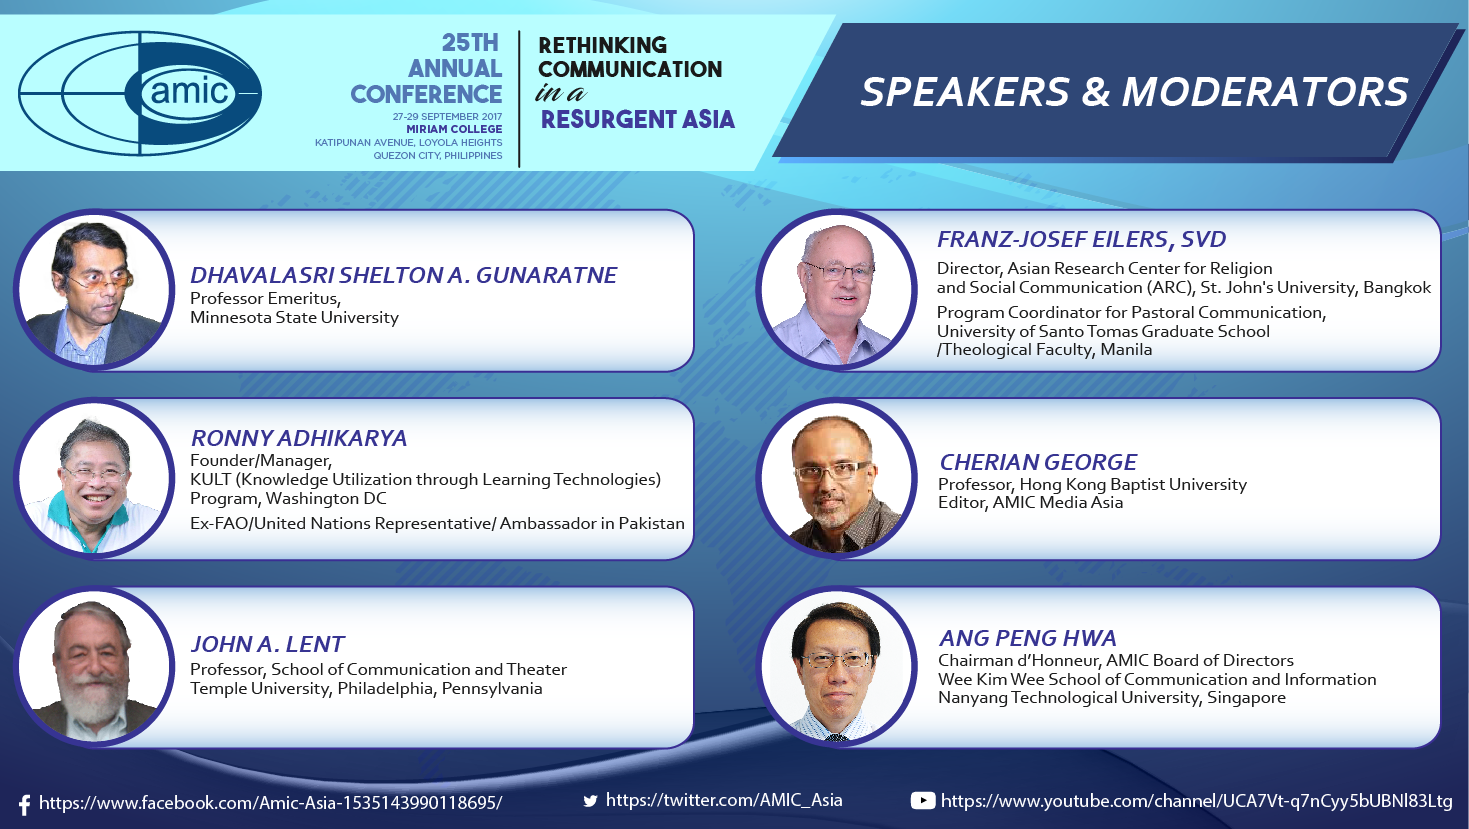
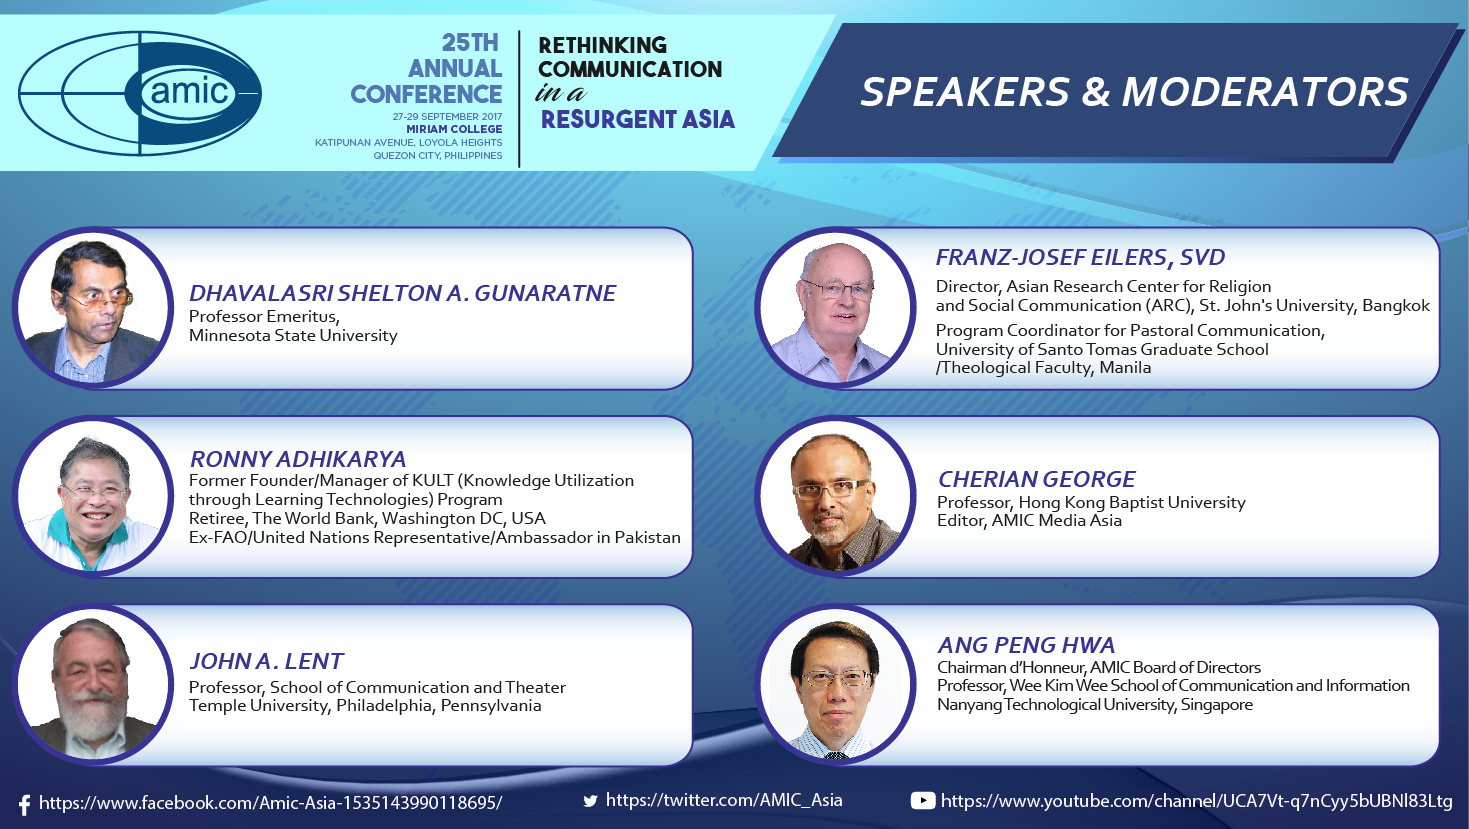
AMIC VIEW FIXED

diff --git a/resources/views/pages/conference-program.blade.php b/resources/views/pages/conference-program.blade.php
@@ -10,98 +10,290 @@
 
 @section('content')
 	<div class="bg-white padding page-content">
-		<h4 class="text-center">25TH Annual AMIC Conference</h4>
-		<h4 class="text-center">27-29 September 2017, Manila, Philippines</h4>
+		<h5 class="text-center">ASIAN MEDIA INFORMATION AND COMMUNICATION CENTRE, INC.</h5>
+		<br />
+		<h4 class="text-center"><b>25TH Annual Conference</b></h4>
+		<h4 class="text-center"><b>“RETHINKING COMMUNICATION IN A RESURGENT ASIA”</b></h4>
+		<h6 class="text-center">Miriam College  27-29 September 2017</h6>
 		<br /><br />
-		<h4 class="text-center">Rethinking Communication in a Resurgent Asia</h4>
+
+		<h5><b>September 26, 2017</b></h5>
 		<table class="table table-bordered">
-			<thead>
-				<tr class="info">
-					<th></th>
-					<th class="text-center">Day 0</th>
-					<th class="text-center">Day 1</th>
-					<th class="text-center">Day 2</th>
-					<th class="text-center">Day 3</th>
-				</tr>
-				<tr class="info">
-					<th></th>
-					<th class="text-center">Sept. 26</th>
-					<th class="text-center">Sept. 27</th>
-					<th class="text-center">Sept. 28</th>
-					<th class="text-center">Sept. 29</th>
-				</tr>
-				<tr class="info">
-					<th></th>
-					<th class="text-center">Tuesday</th>
-					<th class="text-center">Wednesday</th>
-					<th class="text-center">Thursday</th>
-					<th class="text-center">Friday</th>
-				</tr>
-			</thead>
 			<tbody>
 				<tr>
-					<td>7:00AM to 8:00AM</td>
-					<td rowspan="2"></td>
-					<td rowspan="2">REGISTRATION</td>
-					<td rowspan="2">REGISTRATION</td>
-					<td rowspan="8" style="vertical-align: middle;">CONFERENCE ORGANIZED DAY TOUR (DETAILS TO FOLLOW)</td>
+					<td>17.00-18.30</td>
+					<td>Arrival of Participants <br />
+					Registration <br />
+					Welcome Canapes and Drinks
+					</td>
 				</tr>
+
 				<tr>
-					<td>8:00AM to 9:00AM</td>
+					<td>18.30-21.00</td>
+					<td>AMIC Got Talent <br />
+					Videoke Night <br />
+					</td>
 				</tr>
+
 				<tr>
-					<td>9:00AM to 10:30AM</td>
-					<td></td>
-					<td>Opening Ceremony</td>
-					<td>Plenary Session 2 <br />(University Presidents' Session)  UNESCO</td>
-				</tr>
-				<tr>
-					<td>10:30AM to 12:30NN</td>
-					<td></td>
-					<td>Plenary Session 1 <br />(AMIC Distinguished Forum)</td>
-					<td>PARALLEL SESSIONS<br /> C1 Communication Education, C2 Communication Media (including Asian Traditional / Folk Media)</td>
-				</tr>
-				<tr>
-					<td>12:30NN to 2:00PM</td>
-					<td></td>
-					<td>Lunch</td>
-					<td>Lunch</td>
-				</tr>
-				<tr>
-					<td>2:00PM to 3:30PM</td>
-					<td></td>
-					<td>PARALLEL SESSIONS <br /> A1 Asian Communication Philosophies, Theories, and Paradigms, A2 Communication and Culture</td>
-					<td>PARALLEL SESSIONS <br /> D1 Communication Strategies and Approaches, <br /> D2 Inclusive Knowledge Societies</td>
-				</tr>
-				<tr>
-					<td>3:30PM to 5:00PM</td>
-					<td></td>
-					<td>PARALLEL SESSIONS <br />B1 Global Communication, B2 Asian Business Communication</td>
-					<td>PLENARY SESSION 3 <br />(Closing Plenary/ Closing Ceremony)</td>
-				</tr>
-				<tr>
-					<td>5:00PM to 6:30PM</td>
-					<td>Arrival of Delegates</td>
-					<td>DINNER</td>
-					<td>AMIC General Meeting / Wellness Sessions</td>
-				</tr>
-				<tr>
-					<td>6:30PM to 9:00PM</td>
-					<td>Videoke Night/ AMIC GOT TALENT</td>
-					<td>AMIC Communications Awards/Cultural Show</td>
-					<td></td>
-					<td></td>
-				</tr>
-				<tr>
-					<td>9:00PM</td>
-					<td>DAY ENDS</td>
-					<td>DAY ENDS</td>
-					<td></td>
-					<td></td>
+					<td>21.00</td>
+					<td>Day Ends <br />
+					</td>
 				</tr>
 			</tbody>
 		</table>
 
+		<h5><b>September 27, 2017</b></h5>
+		<table class="table table-bordered">
+			<tbody>
+				<tr>
+					<td>07.00-09.00</td>
+					<td>Registration</td>
+				</tr>
+				<tr>
+					<td >09.00-09.30</td>
+					<td><b>Inaugural Ceremony</b> <br />
+					<b>Welcome Remarks:</b> <br />
+						<p style="margin-left: 40px;">(1)	From AMIC: Crispin Maslog (AMIC Board of Directors Chair)</p>
+						<p style="margin-left: 40px;">(2)	From Host-Venue: Rosario O. Lapus (Miriam College President)</p> <br />
+
+					<b>Opening Remarks from the AIJC-AMIC-PWU Consortium:</b>
+						<p style="margin-left: 40px;">(1)	From AIJC-AMIC-PWU Consortium: Francisco Benitez (PWU President)</p>
+						<p style="margin-left: 40px;">(2)	Mel V. Velarde (Chairman and CEO, Asian Institute of Journalism and Communication; <br />
+						&nbsp;&nbsp;&nbsp;&nbsp; CEO, Now Corporation) melvvelarde@gmail.com </p>
+					
+					</td>
+				</tr>
+				<tr>
+					<td >09.30-10.30</td>
+					<td><b>Inaugural Address</b> <br />
+					<b>Welcome Remarks:</b> <br />
+						<p>Maria Leonor “Leni” Robredo <br />
+						Honorable Vice-President of the Republic of the Philippines</p> <br />
+
+					<b>Keynote Address</b>
+						<p>Frank LaRue <br />
+						Assistant Director General for Communication and Information, UNESCO</p>
+					
+					</td>
+				</tr>
+				<tr>
+					<td >10.30-12.30</td>
+					<td><b>Plenary 1: AMIC Distinguished Forum - Rethinking Communication in a Resurgent Asia</b> <br />
+						<p>Florangel Rosario Braid <br />
+						President Emeritus, Senior Adviser & Trustee <br />
+						Asian Institute of Journalism & Communication (AIJC)</p> <br />
+
+						<p>Wimal Dissanayake <br />
+						University of Hawaii in Manoa</p> <br />
+
+						<p>Dhavalasri Shelton A. Gunaratne <br />
+						Professor Emeritus, Minnesota State University</p> <br />
+
+						<p>Ronny Adhikarya <br />
+						Former Founder/Manager of KULT (Knowledge Utilization through Learning Tech.) Program, <br />
+						The World Bank, Washington DC and <br />
+						ex-FAO/United Nations Representative/Ambassador in Pakistan
+						</p> <br />
+
+						<p>John A. Lent <br />
+						Temple University
+						</p> <br />
+
+						<p>Moderator: Arun Mahizhnan <br />
+						Special Research Adviser, Institute of Policy Studies <br />
+						National University of Singapore
+						</p> <br />
+					
+					</td>
+
+				<tr>
+					<td>12.30-14.00</td>
+					<td><p>Lunch</p></td>
+				</tr>
+
+				<tr>
+					<td>14.00-15.30</td>
+						<td><p><b>PARALLEL SESSIONS</b></p>
+							<p>A1 Asian Communication Philosophies, Theories, and Paradigms,</p>
+							<p>A2 Communication and Culture</p>
+					</td>
+				</tr>
+
+				<tr>
+					<td>15.30-17.00</td>
+						<td><p><b>PARALLEL SESSIONS</b></p>
+							<p>B1 Global Communication,</p>
+							<p>B2 Asian Business Communication</p>
+					</td>
+				</tr>
+				<tr>
+					<td>17.00-18.30</td>
+					<td><p>Dinner</p></td>
+				</tr>
+				<tr>
+					<td>18.30-21.00</td>
+					<td><p>GALA/CULTURAL NIGHT</p>
+					<p><b>AMIC Communication Awards</b></p>
+					</td>
+				</tr>
+				<tr>
+					<td>21.00</td>
+					<td><p>Day Ends</p></td>
+				</tr>
+				
+			</tbody>
+		</table>
+
+		<h5><b>September 28, 2017</b></h5>
+		<table class="table table-bordered">
+			<tbody>
+				<tr>
+					<td>07.00-09.00</td>
+					<td>Registration</td>
+				</tr>
+
+				<tr>
+					<td>09.00-10.30</td>
+					<td><p><b>Plenary Session 2: UNESCO Emeritus Dialogue  - <br />
+					Asian Philosophies, Religions and Communication</b></p>
+					<p>Dasho Kinley Dorji <br />
+					Former Secretary, Ministry of Information and Communications, Bhutan
+					</p>
+					<p>Franz-Josef Eilers, svd <br />
+					Director, Asian Research Center for Religion and Social Communication (ARC) <br />
+					at St. John's University, Bangkok <br />
+					Program Coordinator for Pastoral Communication, <br />
+					University of Santo Tomas Graduate School/Theological Faculty, Manila
+					</p>
+
+					<p>Imtiyaz Yusuf <br />
+					Lecturer and Director, Center for Buddhist-Muslim Understanding<br />
+					College of Religious Studies, Mahidol University, Thailand <br />
+					Senior Fellow at the Prince Alwaleed Bin Talal Center for Muslim-Christian Understanding (ACMCU)<br />
+					Georgetown University, Washington D.C., USA.
+					</p>
+
+					<p>Su-Kyung Han<br />
+					Founder, My Green News.com <br />
+					</p>
+
+					<p>Lorna Israel<br />
+					Miriam College/ University of the Philippines<br />
+					</p>
+					</td>
+				</tr>
+
+				<tr>
+					<td>09.00-10.30</td>
+					<td>Moderator: Binod C. Agrawal <br />
+					AMIC Board of Directors Members <br />
+					Co-founder, Himgiri Zee University, Dehradun <br />
+					Co-founder, Mudra Institute of Communications Ahmedabad (MICA)
+					</td>
+				</tr>
+
+				<tr>
+					<td>10.30-12.30</td>
+					<td><p><b>PARALLEL SESSIONS</b></p>
+					<p>C1 Communication Education,</p>
+					<p>C2 Communication Media (including Asian Traditional / Folk Media)</p>
+					</td>
+				</tr>
+
+				<tr>
+					<td>12.30-14.00</td>
+					<td><p>Lunch</p>
+					</td>
+				</tr>
+
+				<tr>
+					<td>14.00-15.30</td>
+					<td><p><b>PARALLEL SESSIONS</b></p>
+					<p>D1 Communication Strategies and Approaches, </p>
+					<p>D2 Inclusive Knowledge Societies</p>
+					</td>
+				</tr>
+
+				<tr>
+					<td>15.30-17.00</td>
+					<td><p><b>Plenary Session 3: Freedom of Expression in a Post-Truth Era ***</b></p>
+					<p>Monroe E. Price <br />
+					Convenor, 2017 World Trends in Freedom of Expression and Media Development Report <br />
+					Director, Center for Global Communications Studies <br />
+					Annenberg School for Communication, University of Pennsylvania <br />
+					Professor of Law, Benjamin N. Cardozo School of Law
+					</p>
+					<p>Cherian George <br />
+					Professor, Hong Kong Baptist University/ Editor, AMIC Media Asia
+					</p>
+
+					<p>Yuen Ying Chan * <br />
+					Member, Open Society Global Board <br />
+					Professor and Founding Director, Journalism and Media Studies Center University of Hong Kong
+					</p>
+
+					<p>Peixin Cao <br />
+					Professor, Communication University of China<br />
+					</p>
+
+					<p>Maria Ressa *<br />
+					CEO, Rappler.com <br />
+					</p>
+
+					<p>Moderator: Ang Peng Hwa<br />
+					Chairman d’Honneur, AMIC Board of Directors <br />
+					Wee Kim Wee School of Communication and Information <br />
+					Nanyang Technological University, Singapore
+					</p>
+					</td>
+				</tr>
+
+				<tr>
+					<td>17.00-17.30</td>
+					<td><p><b>Closing Plenary</b></p>
+					<p><b>Synthesis and Introduction of the Host Institution for the 26th Annual Conference (2018)</b> <br />
+					Crispin Maslog (AMIC Board of Directors Chair)
+					</p>
+					<p><b>Acceptance and Early Welcome</b> <br />
+					Host Institution for the 26th Annual Conference (2018)
+					</p>
+					</td>
+				</tr>
+
+				<tr>
+					<td>17.00-18.30</td>
+					<td><p>Dinner</p>
+					</td>
+				</tr>
+
+				<tr>
+					<td>18.30-21.00</td>
+					<td><p><b>AMIC Business Meeting</b></p>
+					<p>Wellness Sessions <br />
+					Business Matching Sessions
+					</p>
+					</td>
+				</tr>
+				
+				<tr>
+					<td>21.00</td>
+					<td><p>Day Ends</p>
+					</td>
+				</tr>
+			</tbody>
+		</table>
+		<p>*- For Confirmation</p>
+
+		<h5><b>September 29, 2017</b></h5>
+		<table class="table table-bordered">
+			<tbody>
+				<tr>
+					<td>07.00-09.00</td>
+					<td>Day Tour Commences</td>
+				</tr>
+			</tbody>
+		</table>
 
 		<!--table class="table">
 			<tr>

diff --git a/resources/views/pages/home.blade.php b/resources/views/pages/home.blade.php
@@ -38,7 +38,7 @@
 			      </div>
 			    </div>
 			    <div class="item">
-			      <img src="{{ asset('images/sliders/slider12.jpg') }}" alt="Speakers and Moderators" class="fullwidth img-responsive">
+			      <img src="{{ asset('images/sliders/slider12.png') }}" alt="Speakers and Moderators" class="fullwidth img-responsive">
 			      <div class="carousel-caption">
 			        
 			      </div>
